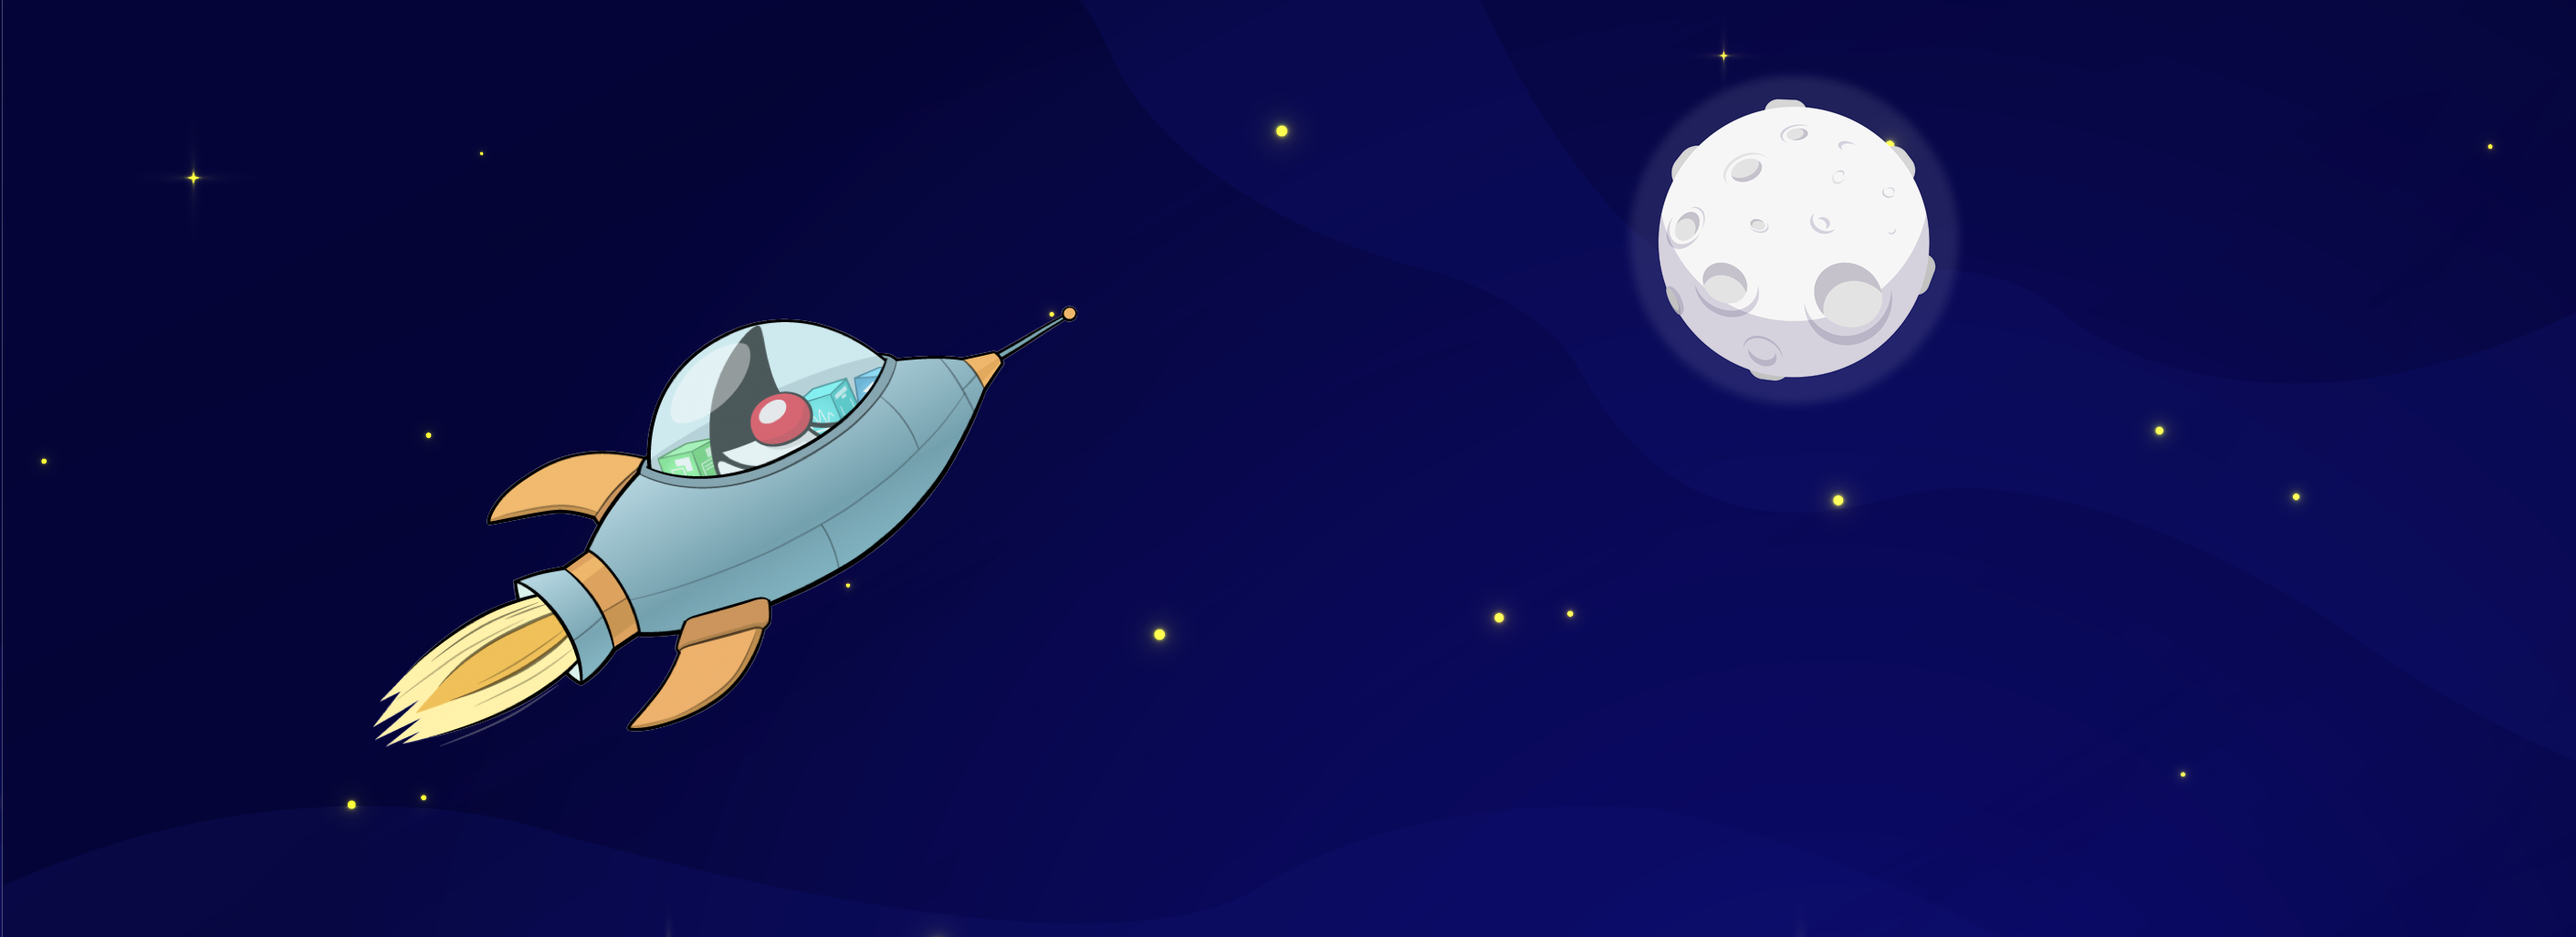
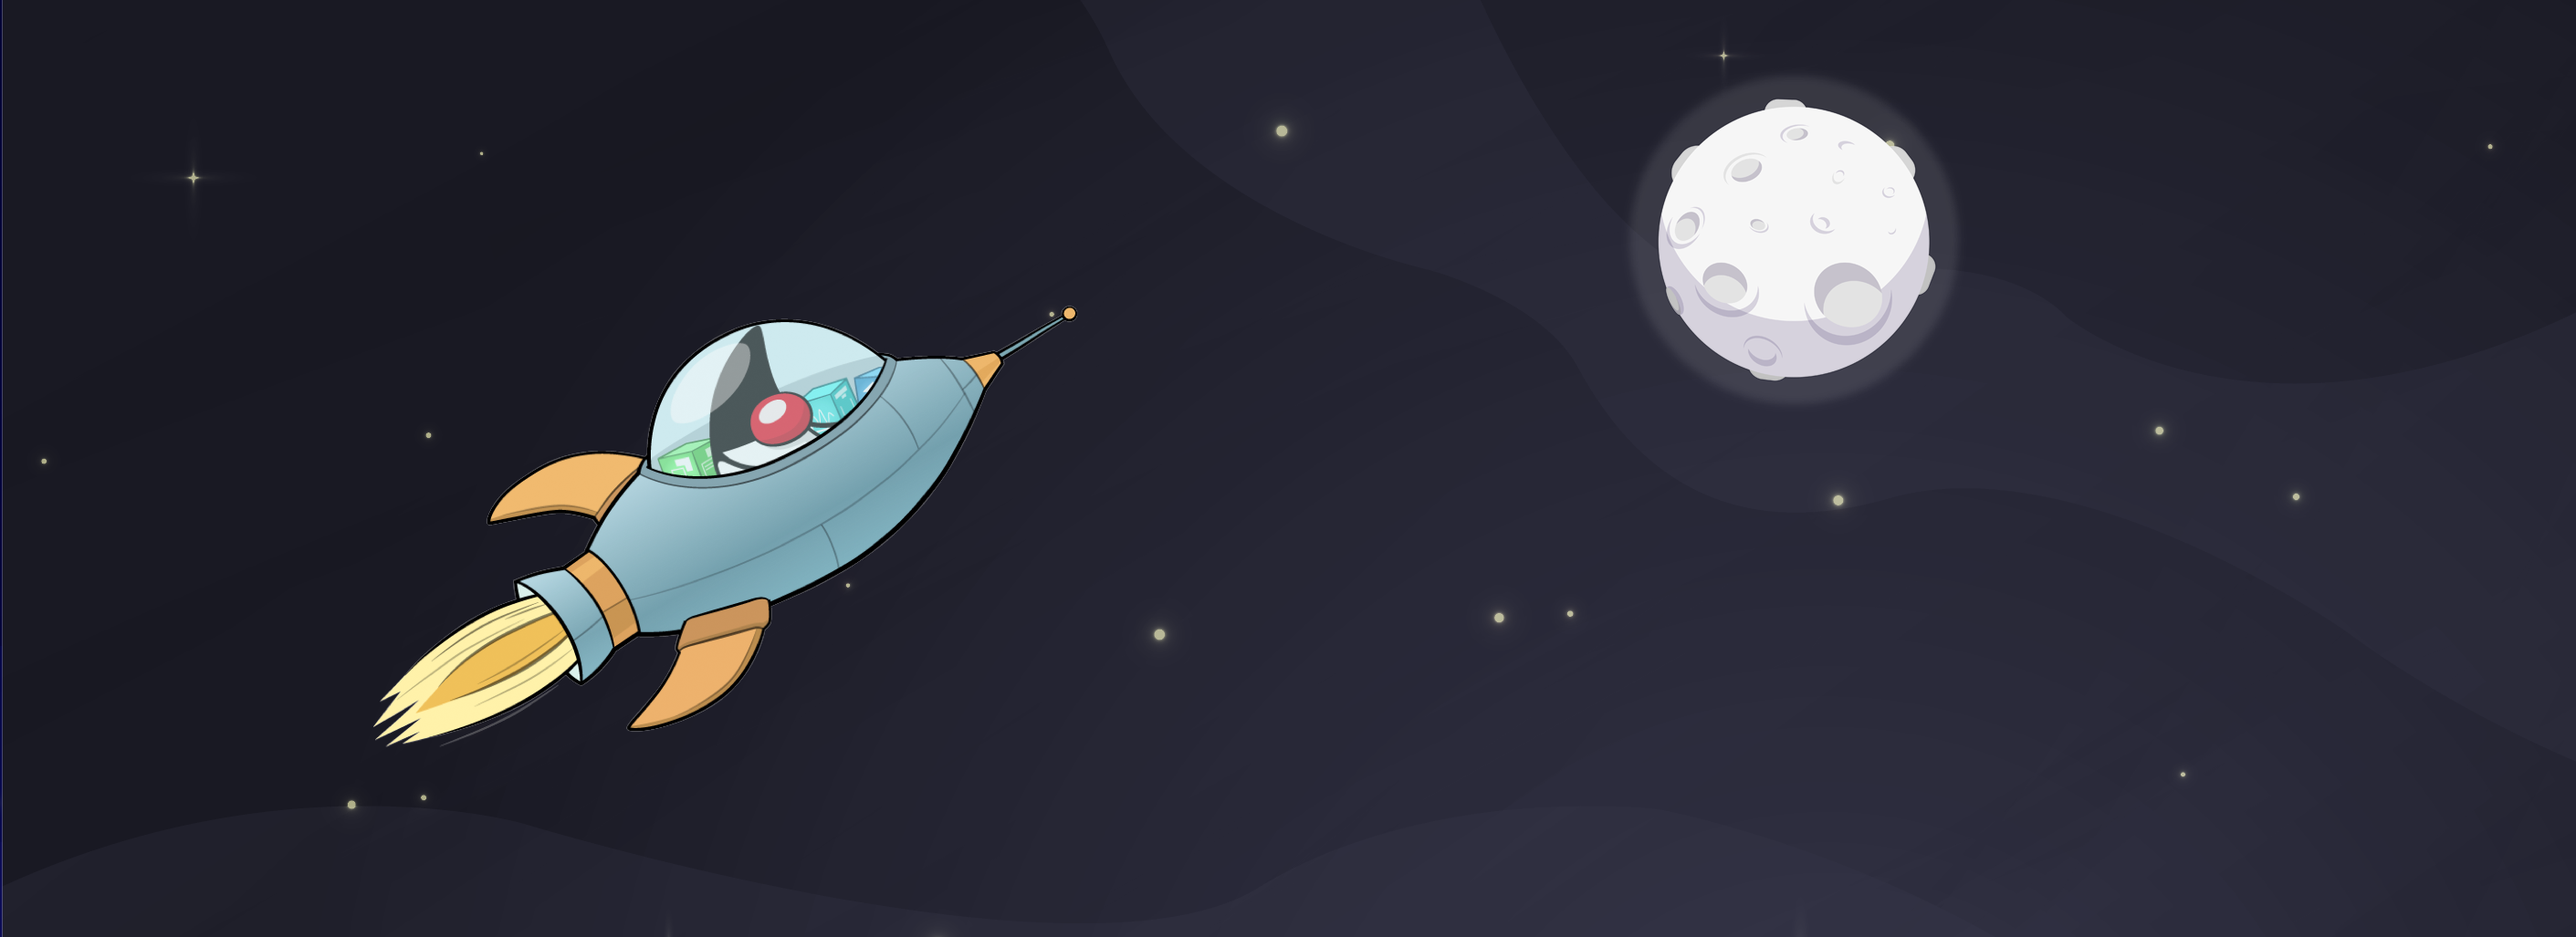
same header image

diff --git a/cookie-policy.md b/cookie-policy.md
@@ -7,8 +7,7 @@ nav:
   bottom: false
 header:
   text: We respect your <span class="my-karakun">privacy<span>
-  image: security
-  y: 10%
+  image: webstart-2
 ---
 <a href="https://www.iubenda.com/privacy-policy/70085305/cookie-policy" class="iubenda-nostyle no-brand iubenda-embed iub-no-markup iub-body-embed" title="Cookie Policy">Cookie Policy</a> <script>(function (w,d) {var loader = function () {var s = d.createElement("script"), tag = d.getElementsByTagName("script")[0]; s.src="https://cdn.iubenda.com/iubenda.js"; tag.parentNode.insertBefore(s,tag);}; if(w.addEventListener){w.addEventListener("load", loader, false);}else if(w.attachEvent){w.attachEvent("onload", loader);}else{w.onload = loader;}})(window, document);</script>
 

diff --git a/privacy-policy.md b/privacy-policy.md
@@ -6,8 +6,7 @@ nav:
   top: false
 header:
   text: We respect your <span class="my-karakun">privacy<span>
-  image: security
-  y: 10%
+  image: webstart-2
 ---
 <a href="https://www.iubenda.com/privacy-policy/70085305" class="iubenda-nostyle no-brand iubenda-embed iub-legal-only iub-no-markup iub-body-embed" title="Privacy Policy">Privacy Policy</a> <script>(function (w,d) {var loader = function () {var s = d.createElement("script"), tag = d.getElementsByTagName("script")[0]; s.src="https://cdn.iubenda.com/iubenda.js"; tag.parentNode.insertBefore(s,tag);}; if(w.addEventListener){w.addEventListener("load", loader, false);}else if(w.attachEvent){w.attachEvent("onload", loader);}else{w.onload = loader;}})(window, document);</script>
 

diff --git a/newsletter_thanks.md b/newsletter_thanks.md
@@ -5,7 +5,7 @@ order: '16'
 headerText:
 permalink: /subscribe-thanks/
 header:
-  image: webstart
+  image: webstart-2
   text: Stay <span class="my-karakun">up to date</span> what's up at <span class="my-karakun">Karakun</span>
 nav:
   bottom: false

diff --git a/newsletter_subscribe.md b/newsletter_subscribe.md
@@ -5,7 +5,7 @@ order: '16'
 headerText:
 permalink: /subscribe/
 header:
-  image: webstart
+  image: webstart-2
   text: Stay <span class="my-karakun">up to date</span> what's up at <span class="my-karakun">Karakun</span>
 nav:
   bottom: true

diff --git a/about.md b/about.md
@@ -5,6 +5,6 @@ order: '20'
 permalink: /about/
 header:
   text: The team behind <span class="my-karakun">Open</span>WebStart
-  image: home
+  image: webstart-2
 
 ---
